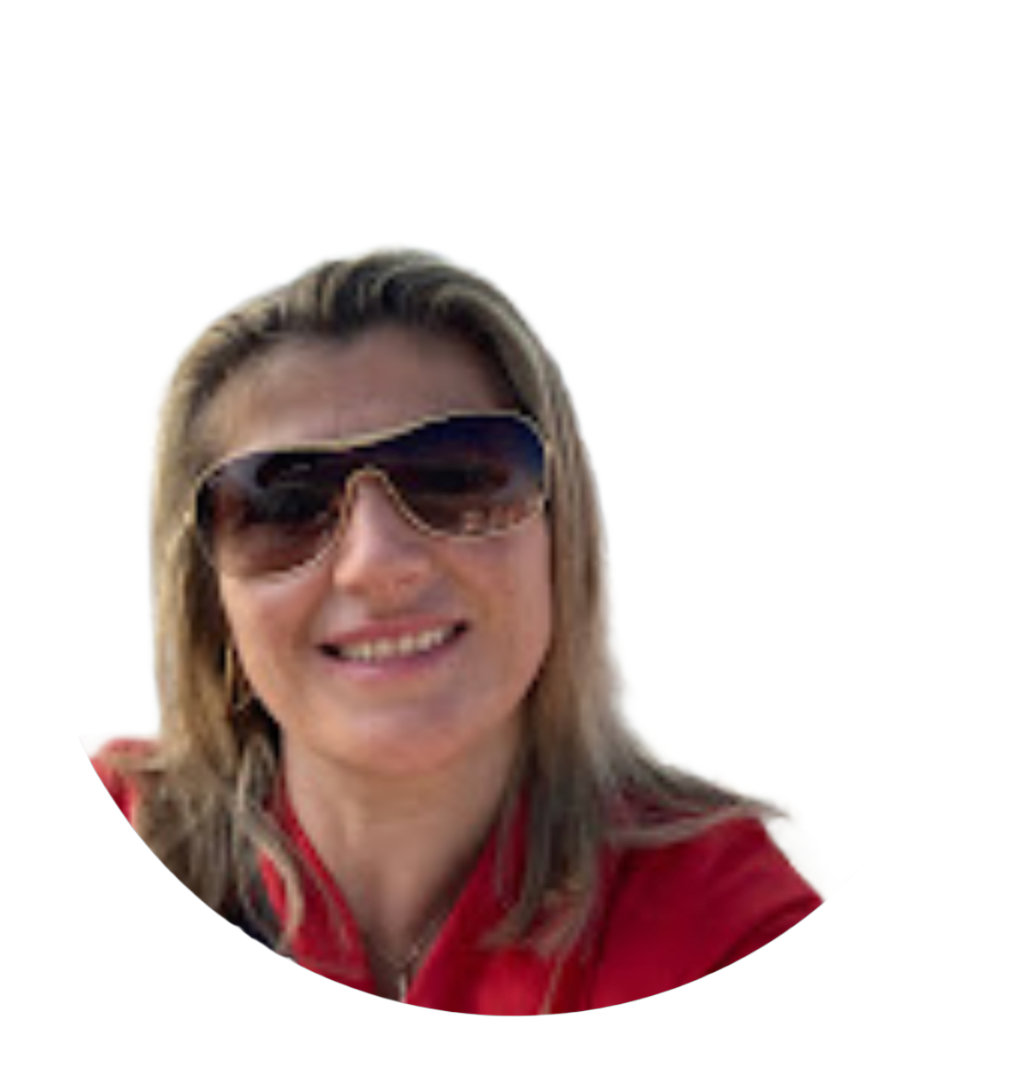
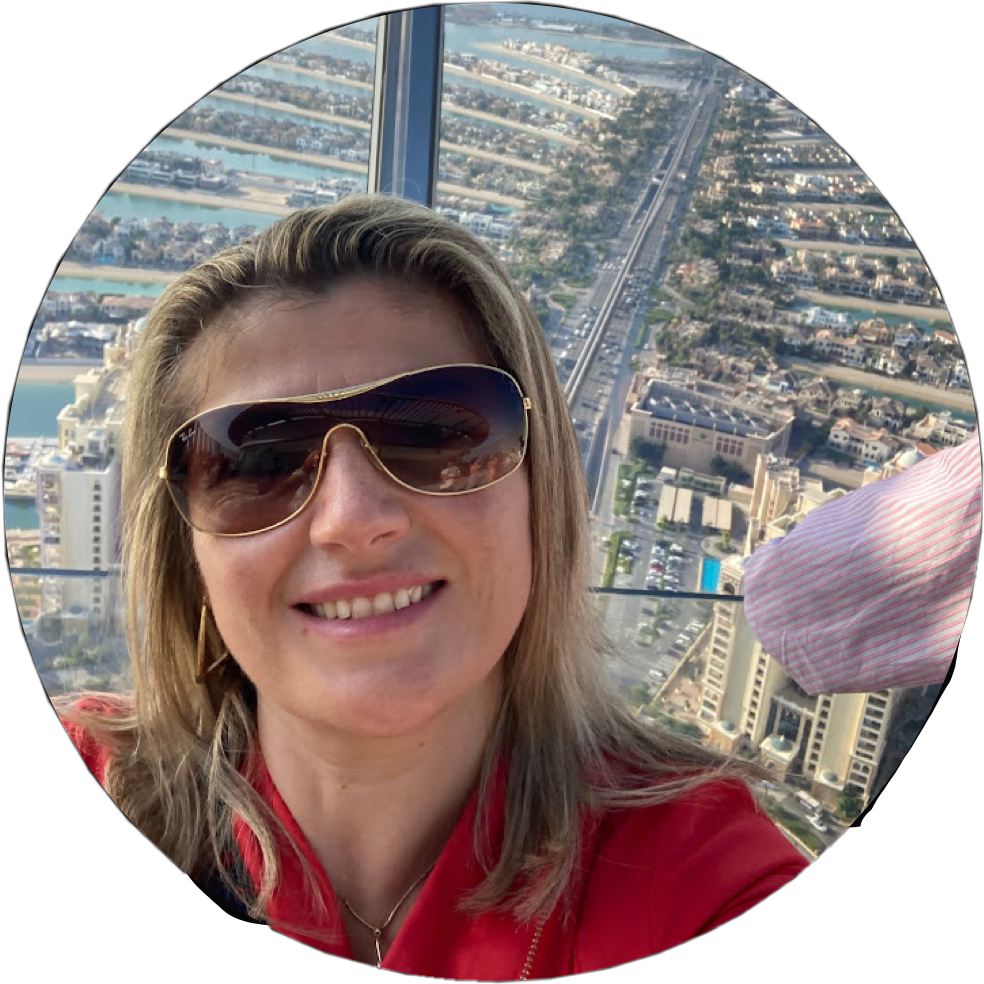
upgrading some yt pfps quality

diff --git a/components/YoutubeGrid/CommentData.ts b/components/YoutubeGrid/CommentData.ts
@@ -8,6 +8,30 @@ export interface CommentData {
 
 export const commentsData: CommentData[] = [
   {
+    username: "vrstanchev",
+    handle: "@vrstanchev",
+    avatarUrl: "/images/youtube-pfp/vrstanchev.png",
+    comment:
+      "Well done, mate",
+    isYouTuber: true,
+  },
+  {
+    username: "Bobi Bg133",
+    handle: "@bobibg1337",
+    avatarUrl: "/images/youtube-pfp/bobibg1337.png",
+    comment:
+      "Great lecturer even so young :D",
+    isYouTuber: true,
+  },
+  {
+    username: "Anton Almishev",
+    handle: "@antonalmishev1784",
+    avatarUrl: "/images/youtube-pfp/antonalmishev1784.png",
+    comment:
+      "Cool, when will there be more?",
+    isYouTuber: true,
+  },
+  {
     username: "Bkachama",
     handle: "@bkachama7223",
     avatarUrl: "/images/youtube-pfp/Bkachama.png",
